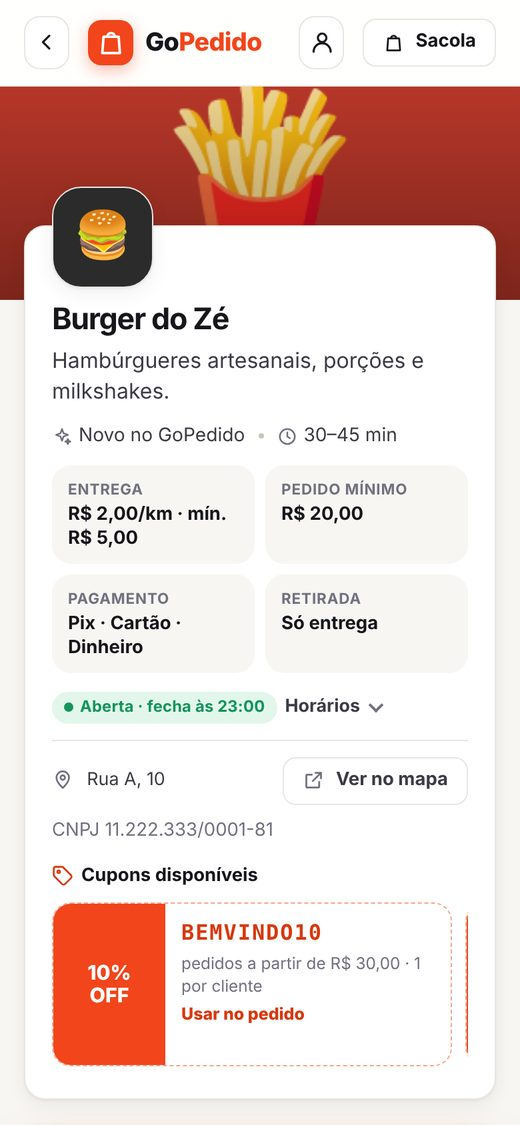
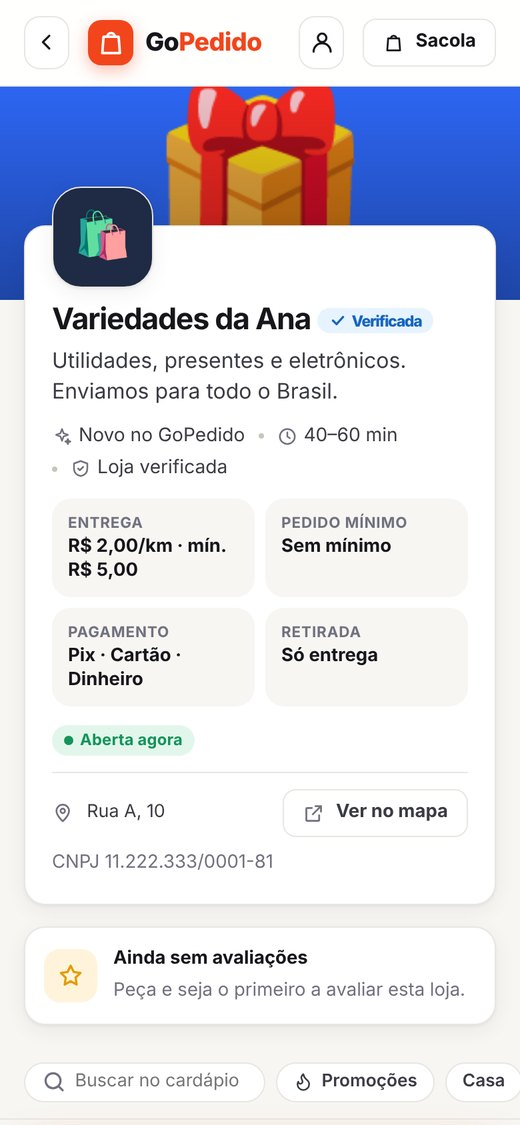
Delivery: novas telas no topo da página (loja de variedades, frete e rastreio) e código de rastreio sem quebra no celular
Claude-Session: https://claude.ai/code/session_01FenwP2TpVCHcVQzzk1tbiz

diff --git a/delivery/pedido.html b/delivery/pedido.html
@@ -125,7 +125,7 @@
         </div>
         <div class="timeline">${tl}</div>
         ${env && !p.rastreio && !fim && p.status !== 'novo' ? `<div class="fee" style="margin-top:18px;background:var(--bg);display:flex;gap:10px;padding:12px 14px;border-radius:12px;font-size:.9rem">${ic('box')}<span>O código de rastreio aparece aqui assim que a loja gerar a etiqueta.</span></div>` : ''}
-        ${env && p.rastreio ? `<div class="fee" style="margin-top:18px;background:var(--bg);display:flex;gap:10px;align-items:center;padding:12px 14px;border-radius:12px;font-size:.9rem">${ic('box')}<span class="grow">Código de rastreio: <b>${esc(p.rastreio)}</b></span><button type="button" class="btn btn-ghost btn-sm" id="b-rast-copy">${ic('copy')}Copiar</button><a class="btn btn-primary btn-sm" target="_blank" rel="noopener" href="https://www.melhorrastreio.com.br/rastreio/${encodeURIComponent(p.rastreio)}">Rastrear</a></div>` : ''}
+        ${env && p.rastreio ? `<div class="fee" style="margin-top:18px;background:var(--bg);display:flex;flex-wrap:wrap;gap:10px;align-items:center;padding:12px 14px;border-radius:12px;font-size:.9rem">${ic('box')}<span class="grow" style="min-width:190px">Código de rastreio: <b>${esc(p.rastreio)}</b></span><button type="button" class="btn btn-ghost btn-sm" id="b-rast-copy">${ic('copy')}Copiar</button><a class="btn btn-primary btn-sm" target="_blank" rel="noopener" href="https://www.melhorrastreio.com.br/rastreio/${encodeURIComponent(p.rastreio)}">Rastrear</a></div>` : ''}
         ${!fim && env && p.frete_prazo ? `<div class="fee" style="margin-top:12px;background:var(--bg);display:flex;gap:10px;padding:12px 14px;border-radius:12px;font-size:.9rem">${ic('clock')}<span>${esc(p.frete_nome || 'Transportadora')}: chega em até <b>${p.frete_prazo} dia${p.frete_prazo > 1 ? 's' : ''} útei${p.frete_prazo > 1 ? 's' : 'l'}</b> depois de postado</span></div>` : ''}
         ${!fim && !env && l.tempo_entrega ? `<div class="fee" style="margin-top:18px;background:var(--bg);display:flex;gap:10px;padding:12px 14px;border-radius:12px;font-size:.9rem">${ic('clock')}<span>Previsão da loja: <b>${esc(l.tempo_entrega)}</b></span></div>` : ''}
       </div>

diff --git a/delivery/index.html b/delivery/index.html
@@ -251,9 +251,9 @@
     </div>
     <div class="hero-phones" aria-hidden="true">
       <div class="glow"></div>
-      <div class="ph ph-l"><img src="img/tela-2.jpg" alt="" loading="eager"></div>
-      <div class="ph ph-c"><img src="img/tela-1.jpg" alt="" loading="eager"></div>
-      <div class="ph ph-r"><img src="img/tela-3.jpg" alt="" loading="eager"></div>
+      <div class="ph ph-l"><img src="img/tela-2.jpg?v=2" alt="" loading="eager"></div>
+      <div class="ph ph-c"><img src="img/tela-1.jpg?v=2" alt="" loading="eager"></div>
+      <div class="ph ph-r"><img src="img/tela-3.jpg?v=2" alt="" loading="eager"></div>
       <div class="f f1"><i class="fi ok" data-ic="check"></i>Pix confirmado</div>
       <div class="f f2"><i class="fi br" data-ic="bike"></i>Saiu para entrega</div>
       <div class="f f3"><i class="fi pp" data-ic="box"></i>Rastreio no seu e-mail</div>
